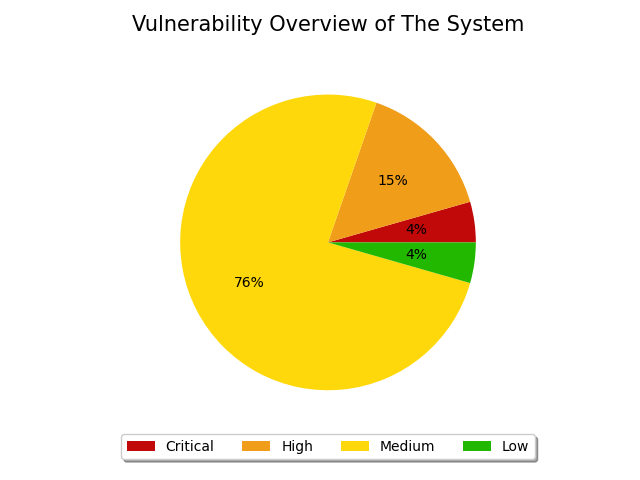
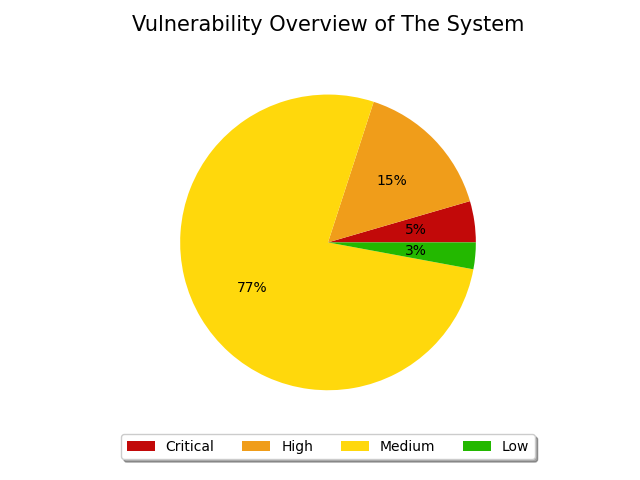
fixed amount == 0 bug

diff --git a/test code/mc_table_nessus.py b/test code/mc_table_nessus.py
@@ -16,7 +16,7 @@ countInfo = 0
 count = 1
 context = {}
 countIP = 0
-
+genGraph = 1
 
 def makeJson(csvFilePath, jsonFilePath):
     data = {}
@@ -47,7 +47,7 @@ DataJson = open(
     "E:/INETMS/doc/Nessus_template/dataFile.json", "w")
 DataJson.close()
 
-csvFilePath = r'E:/INETMS/doc/Nessus_template/sqa.csv'
+csvFilePath = r'E:/INETMS/doc/Nessus_template/All_Dell_Cloud.csv'
 jsonFilePath = r'E:/INETMS/doc/Nessus_template/dataFile.json'
 
 makeJson(csvFilePath, jsonFilePath)
@@ -119,6 +119,12 @@ MediumS = (sum([d['Medium'] for d in l]))
 LowS = (sum([d['Low'] for d in l]))
 #InfoS = (sum([d['Info'] for d in l]))
 Amount = CriticalS+HighS+MediumS+LowS
+#Amount = 0
+if Amount == 0:
+    Amount = 1
+    genGraph = 0
+else:
+    Amount
 dictS = {"Critical": CriticalS,
          "High": HighS, "Medium": MediumS, "Low": LowS, "Total": totalS}
 percent = {"Critical": '%1.0f' % (CriticalS*100/Amount), "High": '%1.0f' % (
@@ -194,17 +200,17 @@ array = [
     }
 ]
 
+if genGraph != 0:
+    plt.pie([i["value"] for i in array], autopct=lambda p: '{:1.0f}%'.format(
+        round(p)) if p > 0 else '', colors=[i["colors"] for i in array])
+    plt.title('Vulnerability Overview of The System', y=1.05, fontsize=15)
+    plt.legend(loc='upper center', bbox_to_anchor=(0.5, 0),
+                    fancybox=True, shadow=True, ncol=4, labels=[i["risk"] for i in array])
 
-plt.pie([i["value"] for i in array], autopct=lambda p: '{:1.0f}%'.format(
-     round(p)) if p > 0 else '', colors=[i["colors"] for i in array])
-plt.title('Vulnerability Overview of The System', y=1.05, fontsize=15)
-plt.legend(loc='upper center', bbox_to_anchor=(0.5, 0),
-                fancybox=True, shadow=True, ncol=4, labels=[i["risk"] for i in array])
+    plt.savefig("E:/INETMS/doc/Nessus_template/Overview_Graph.png")
 
-plt.savefig("E:/INETMS/doc/Nessus_template/Overview_Graph.png")
-
-doc.replace_media("E:/INETMS/doc/Nessus_template/1.png",
-                   "E:/INETMS/doc/Nessus_template/Overview_Graph.png")
+    doc.replace_media("E:/INETMS/doc/Nessus_template/1.png",
+                    "E:/INETMS/doc/Nessus_template/Overview_Graph.png")
 
 doc.save("E:/INETMS/doc/Nessus_template/generated_doc.docx")
 os.system("E:/INETMS/doc/Nessus_template/generated_doc.docx")

diff --git a/test code/mc_table.py b/test code/mc_table.py
@@ -123,7 +123,7 @@ array = [
     },
     {
         "risk": "Low",
-        "value": l2["Summary"]["Critical"],
+        "value": l2["Summary"]["Low"],
         "colors": "#23B800"
     }
 ]
